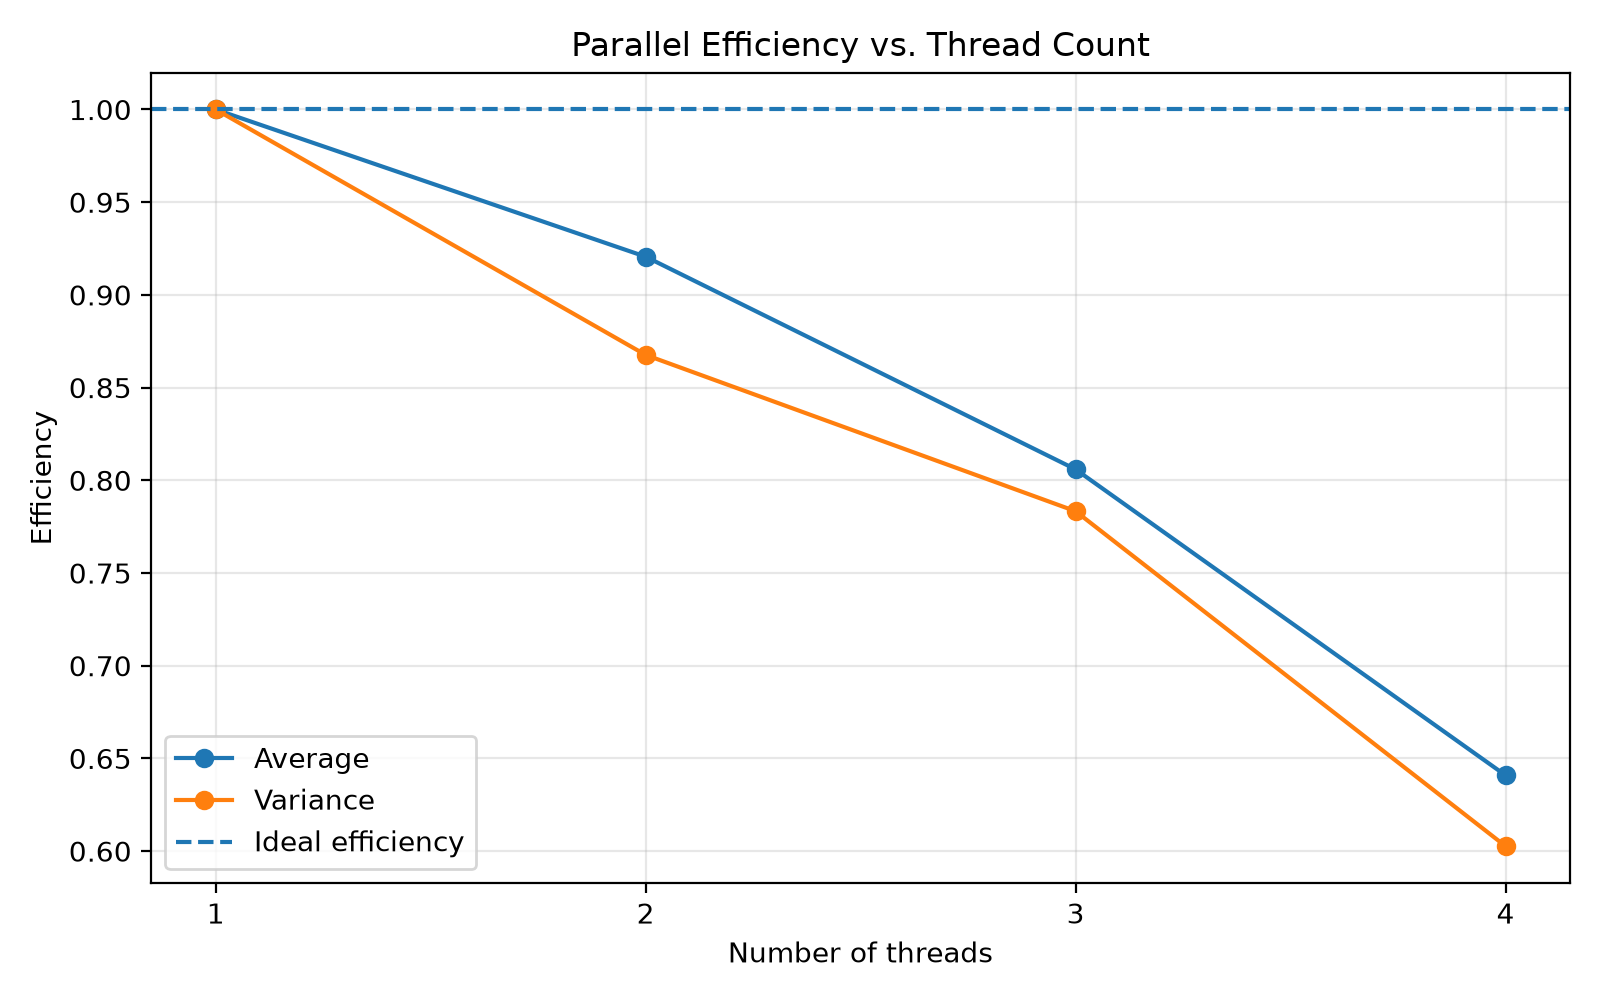
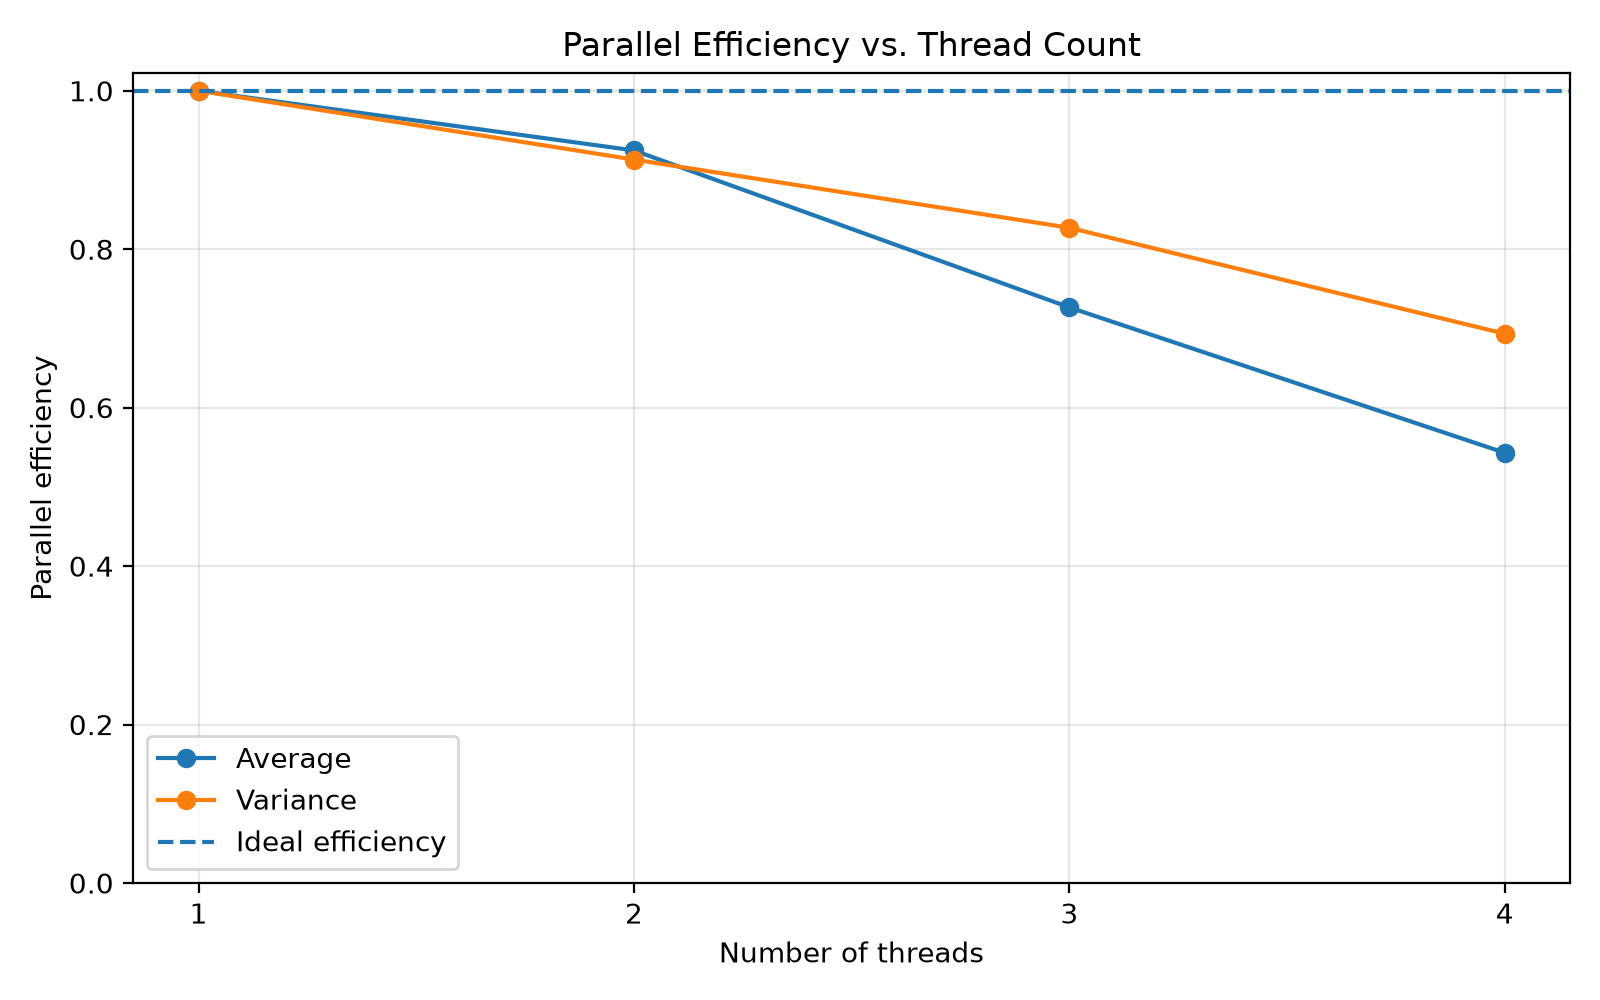
Generating the results for 20 repetitions

diff --git a/results/summary.md b/results/summary.md
@@ -1,16 +1,19 @@
 # Benchmark Summary
 
-Runtime is reported as the median of repeated measurements.
+Runtime is summarized using the median and interquartile range (IQR).
+IQR = 75th percentile - 25th percentile.
 Speedup = single-thread median / current median.
 Efficiency = speedup / thread count.
+Bootstrap confidence intervals use 10,000 resamples.
+The confidence intervals are estimates, not guarantees.
 
-| Operation | Threads | Runs | Median (s) | Mean (s) | Std. dev. (s) | Speedup | Efficiency |
-|---|---:|---:|---:|---:|---:|---:|---:|
-| average | 1 | 10 | 0.032120 | 0.031320 | 0.001519 | 1.00x | 100.0% |
-| average | 2 | 10 | 0.017445 | 0.017470 | 0.000292 | 1.84x | 92.1% |
-| average | 3 | 10 | 0.013285 | 0.015192 | 0.003156 | 2.42x | 80.6% |
-| average | 4 | 10 | 0.012529 | 0.013387 | 0.002047 | 2.56x | 64.1% |
-| variance | 1 | 10 | 0.078040 | 0.081509 | 0.013769 | 1.00x | 100.0% |
-| variance | 2 | 10 | 0.044973 | 0.045103 | 0.001879 | 1.74x | 86.8% |
-| variance | 3 | 10 | 0.033209 | 0.035255 | 0.004356 | 2.35x | 78.3% |
-| variance | 4 | 10 | 0.032373 | 0.033006 | 0.004497 | 2.41x | 60.3% |
+| Operation | Threads | Runs | Median (s) | Q1 (s) | Q3 (s) | IQR (s) | Speedup | Speedup 95% CI | Efficiency |
+|---|---:|---:|---:|---:|---:|---:|---:|---:|---:|
+| average | 1 | 20 | 0.031493 | 0.029922 | 0.031954 | 0.002033 | 1.00x | 0.95–1.05 | 100.0% |
+| average | 2 | 20 | 0.017029 | 0.015032 | 0.017466 | 0.002434 | 1.85x | 1.76–2.01 | 92.5% |
+| average | 3 | 20 | 0.014448 | 0.014173 | 0.014883 | 0.000710 | 2.18x | 2.07–2.23 | 72.7% |
+| average | 4 | 20 | 0.014499 | 0.013454 | 0.015819 | 0.002365 | 2.17x | 1.98–2.33 | 54.3% |
+| variance | 1 | 20 | 0.088592 | 0.084624 | 0.091394 | 0.006770 | 1.00x | 0.96–1.04 | 100.0% |
+| variance | 2 | 20 | 0.048509 | 0.047785 | 0.049121 | 0.001336 | 1.83x | 1.76–1.89 | 91.3% |
+| variance | 3 | 20 | 0.035706 | 0.035553 | 0.035903 | 0.000350 | 2.48x | 2.40–2.56 | 82.7% |
+| variance | 4 | 20 | 0.031943 | 0.030857 | 0.035801 | 0.004944 | 2.77x | 2.52–2.88 | 69.3% |
